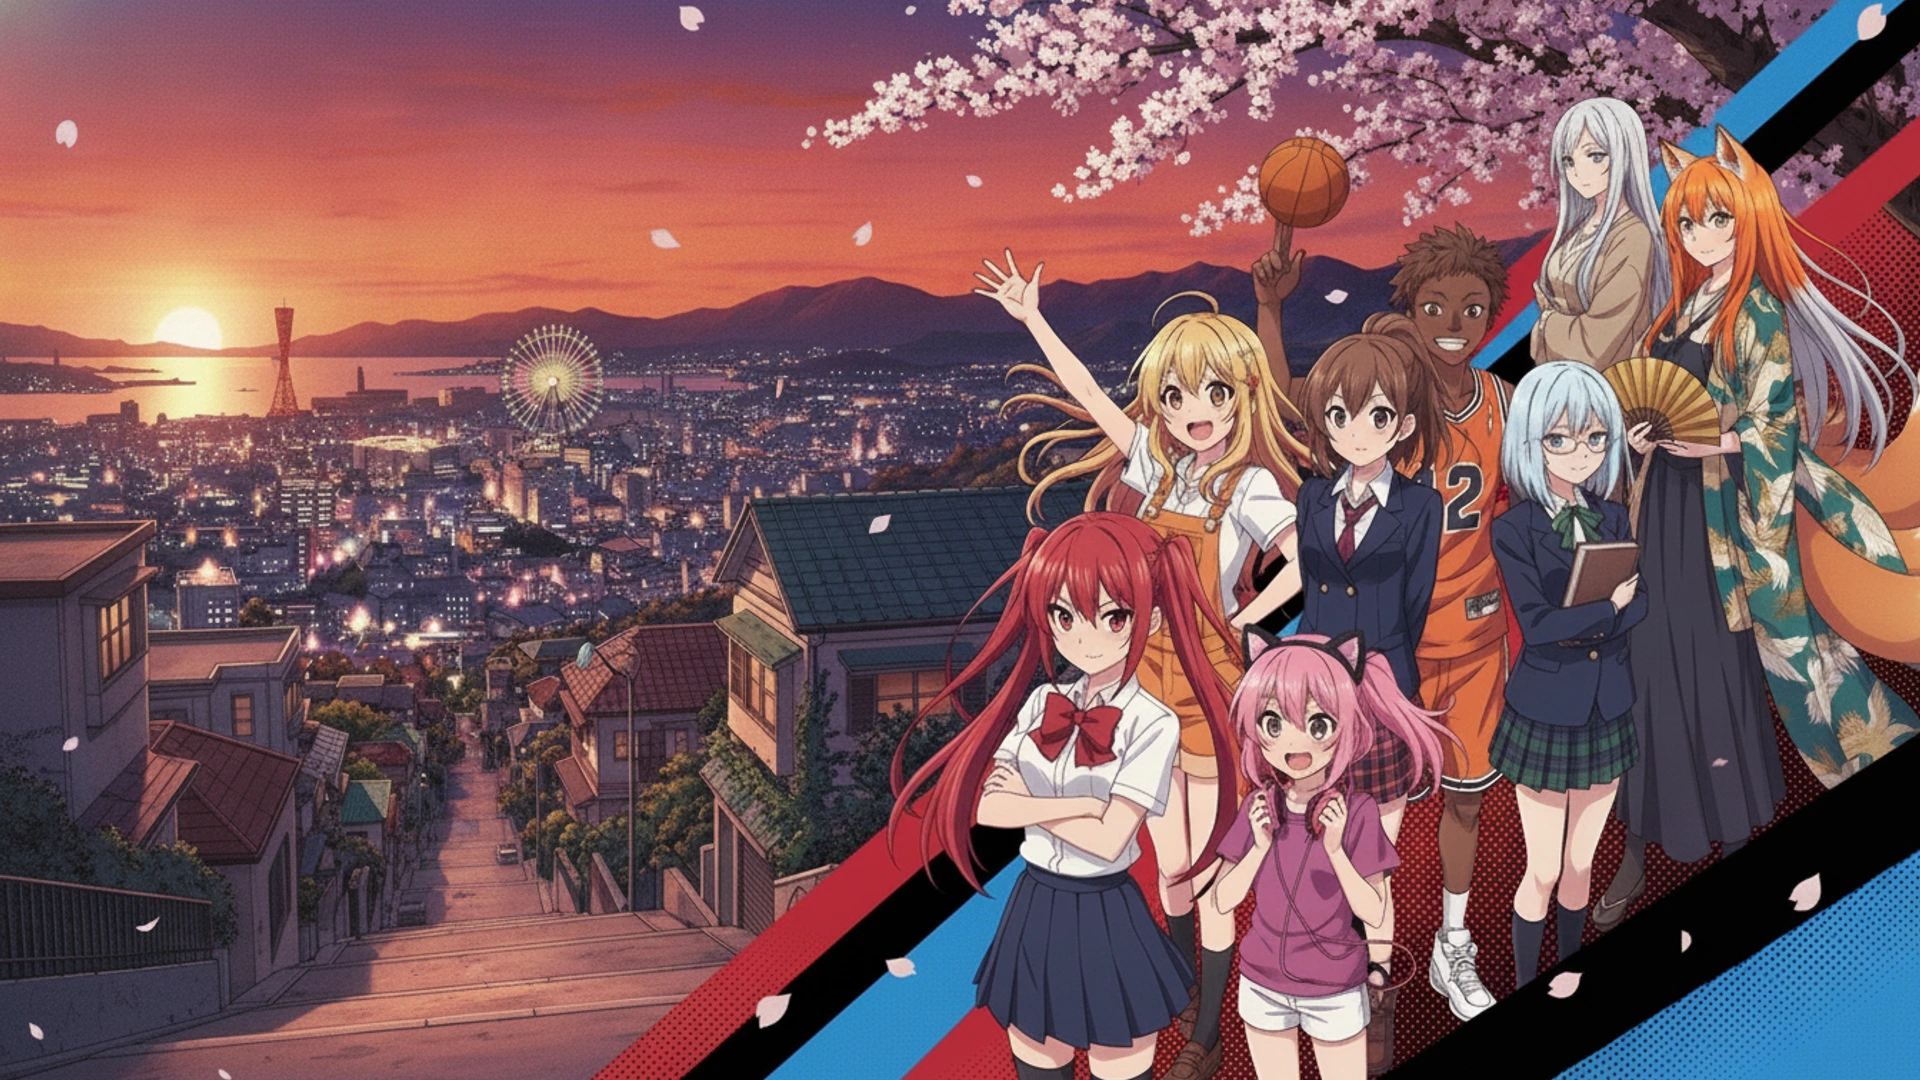
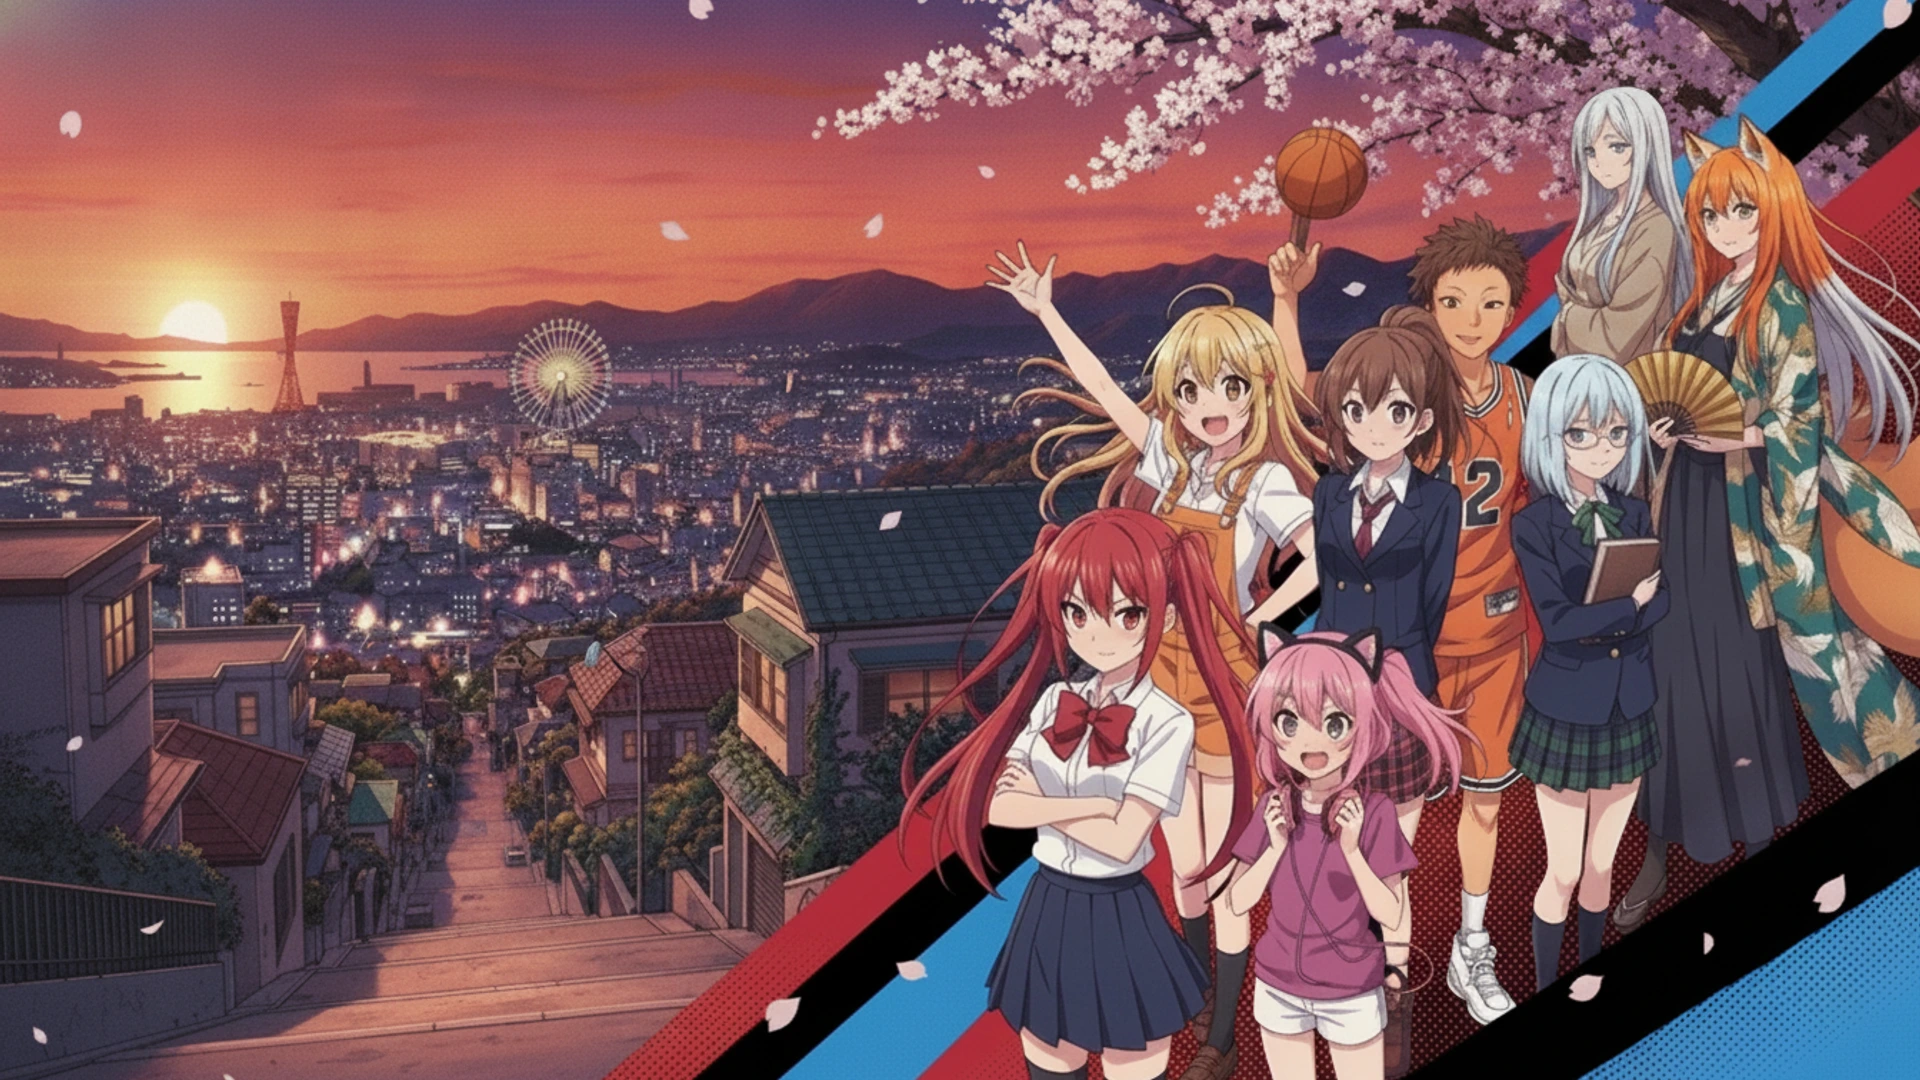
Fix Sora's skin tone on the cover, drop the N3 RESEARCH tag
Her sprite is 小麦色 — a light tan from training outdoors. The prompt
said "dark-skinned tomboy", so every one of the four candidates drew her
as Black, and that is what shipped. Corrected by image edit rather than
a re-roll, so the other seven are untouched, and the description in the
generator now pins the range explicitly: a light sun-tanned Japanese
complexion, not dark. Vague skin-tone wording does not land in the
middle — the model takes it to one end.

The N3 RESEARCH strip under the logo is gone. It read as a placeholder
subtitle, and with it removed the wordmark stands on its own.

diff --git a/components/SetupScreen.tsx b/components/SetupScreen.tsx
@@ -66,9 +66,6 @@ const SetupScreen: React.FC<Props> = ({
             <div className="absolute -inset-6 bg-red-600 transform -skew-x-12 blur-sm opacity-80 group-hover:scale-110 transition-transform duration-500"></div>
             <div className="absolute -inset-2 bg-black transform skew-x-12 opacity-80"></div>
             <h1 className="relative text-5xl md:text-9xl font-black italic tracking-tighter text-white drop-shadow-[5px_5px_0px_rgba(0,0,0,1)] transform -skew-x-6 select-none" style={{textShadow: '8px 8px 0px #000'}}>KOBE<br/><span className="text-yellow-400">STUDY</span></h1>
-            {/* 竖屏上 logo 变小，这条标签压在 STUDY 上会把整个词吃掉，所以小屏挪到下面去；
-                桌面尺寸下它压在字脚上是有意的，保留原位。*/}
-            <p className="absolute -bottom-5 right-0 md:bottom-2 md:-right-4 bg-white text-black text-[10px] md:text-xs font-black px-4 py-1 transform skew-x-12 tracking-[0.5em] shadow-[4px_4px_0px_#000]">N3 RESEARCH</p>
           </div>
         </div>
 
